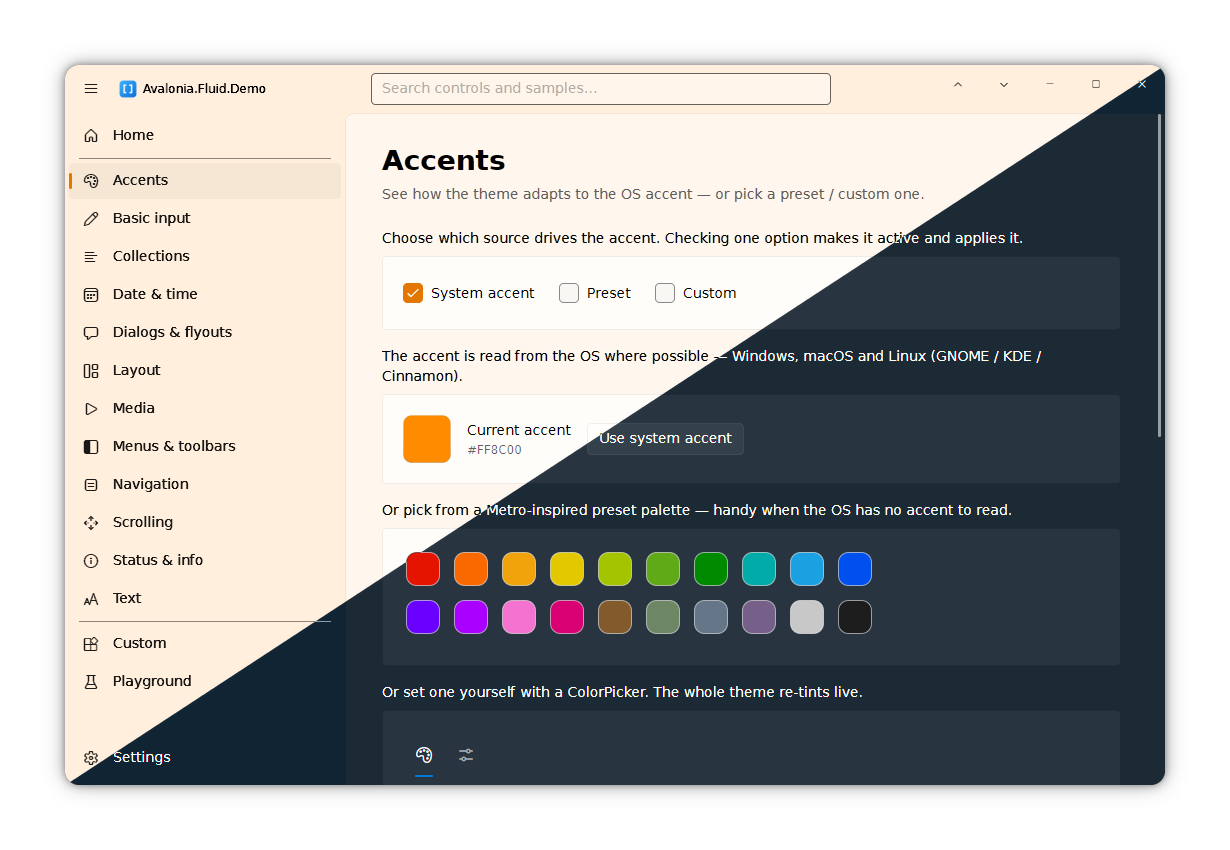
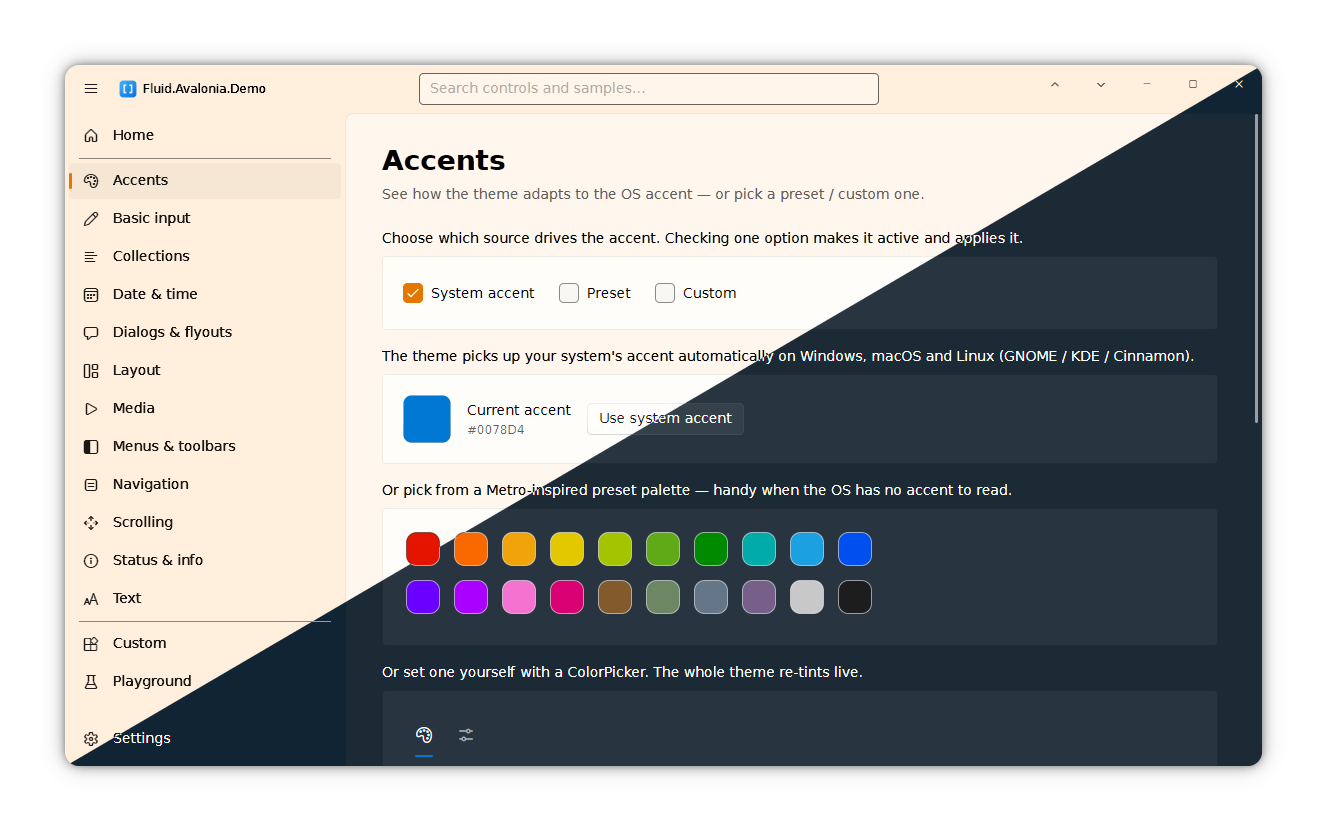
docs: polish the README intro and refresh the screenshot
- Rephrase the intro into two cleaner sentences (lead with the
  Fluent 2 / WinUI 3 framing; make the accent line more active).
- Refresh screenshot.png: smaller semitransparent frame, shadow that
  fades to transparency by the midpoint, smoother rounded corners.
- Reorder Fluid.Avalonia.sln so the Desktop head is listed first,
  making it the default startup project in Visual Studio.

diff --git a/README.md b/README.md
@@ -9,9 +9,9 @@
   <a href="LICENSE"><img src="https://img.shields.io/badge/License-MIT-blue.svg" alt="License: MIT" /></a>
 </p>
 
-A theme for [Avalonia](https://avaloniaui.net/) **12** (.NET 8): a **Fluent 2 inspired** look with
-its own identity — drawing on WinUI 3 for its tokens and metrics, then adapting automatically to
-whatever accent color the user has set (Windows, with macOS and Linux fallbacks).
+A **Fluent 2 / WinUI 3-inspired** theme for [Avalonia](https://avaloniaui.net/) **12** (.NET 8).
+It pairs authentic WinUI tokens and metrics with an identity of its own, and picks up the user's
+accent color automatically — read from Windows, with macOS and Linux fallbacks.
 
 ![Fluid.Avalonia — the demo's Accents page, split diagonally between the light and dark themes](https://raw.githubusercontent.com/Alpaq92/Fluid.Avalonia/main/screenshot.png)
 